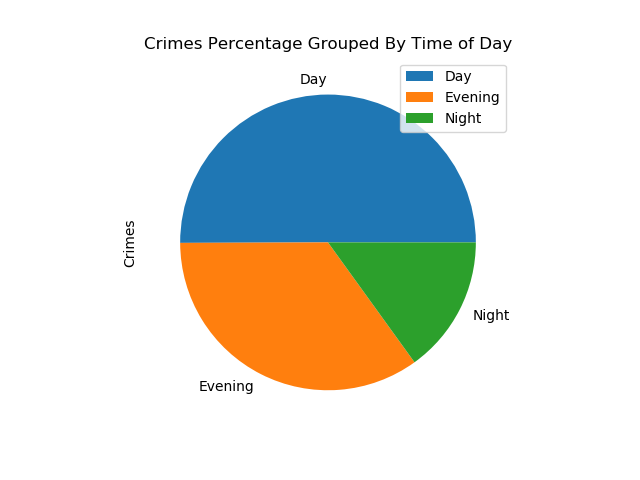
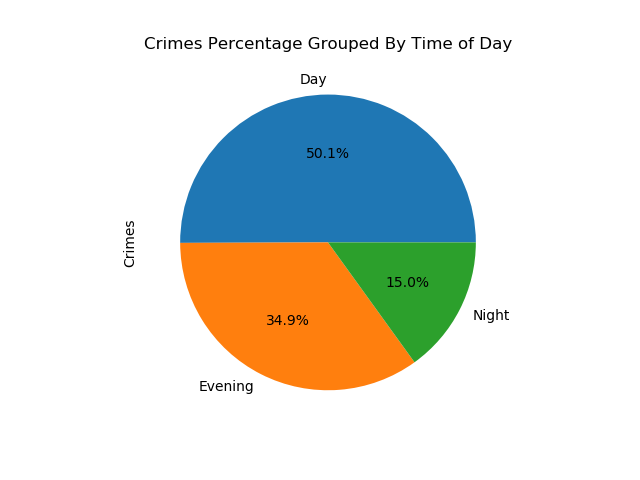
Add percentage number to pie charts + Remove legend from charts

diff --git a/scripts/charts.py b/scripts/charts.py
@@ -4,8 +4,9 @@ import pandas as pd
 
 def group_by_time_of_day(df):
     grouped = df.groupby(['TIME_OF_DAY']).size().to_frame('Crimes')
-    p = grouped.plot.pie(y='Crimes', labels=['Day', 'Evening', 'Night'])
+    p = grouped.plot.pie(y='Crimes', labels=['Day', 'Evening', 'Night'], autopct='%1.1f%%')
     p.set_title('Crimes Percentage Grouped By Time of Day')
+    p.get_legend().remove()
     plt.savefig('../charts/time_of_day.png')
 
 def group_by_month(df):
@@ -21,8 +22,9 @@ def group_by_month(df):
 
 def group_by_year(df):
     grouped = df.groupby(['YEAR']).size().to_frame('Crimes')
-    p = grouped.plot.pie(y='Crimes')
+    p = grouped.plot.pie(y='Crimes', autopct='%1.1f%%')
     p.set_title('Crimes Percentage Grouped By Year')
+    p.get_legend().remove()
     plt.savefig('../charts/year.png')
 
 def group_by_territory(df):
@@ -34,6 +36,7 @@ def group_by_territory(df):
     p.set_title('Crimes Percentage Grouped By Territory')
     p.set_ylabel('Percentage of Crimes')
     p.set_xlabel('Territory Number')
+    p.get_legend().remove()
     plt.savefig('../charts/territory.png')
 
 
